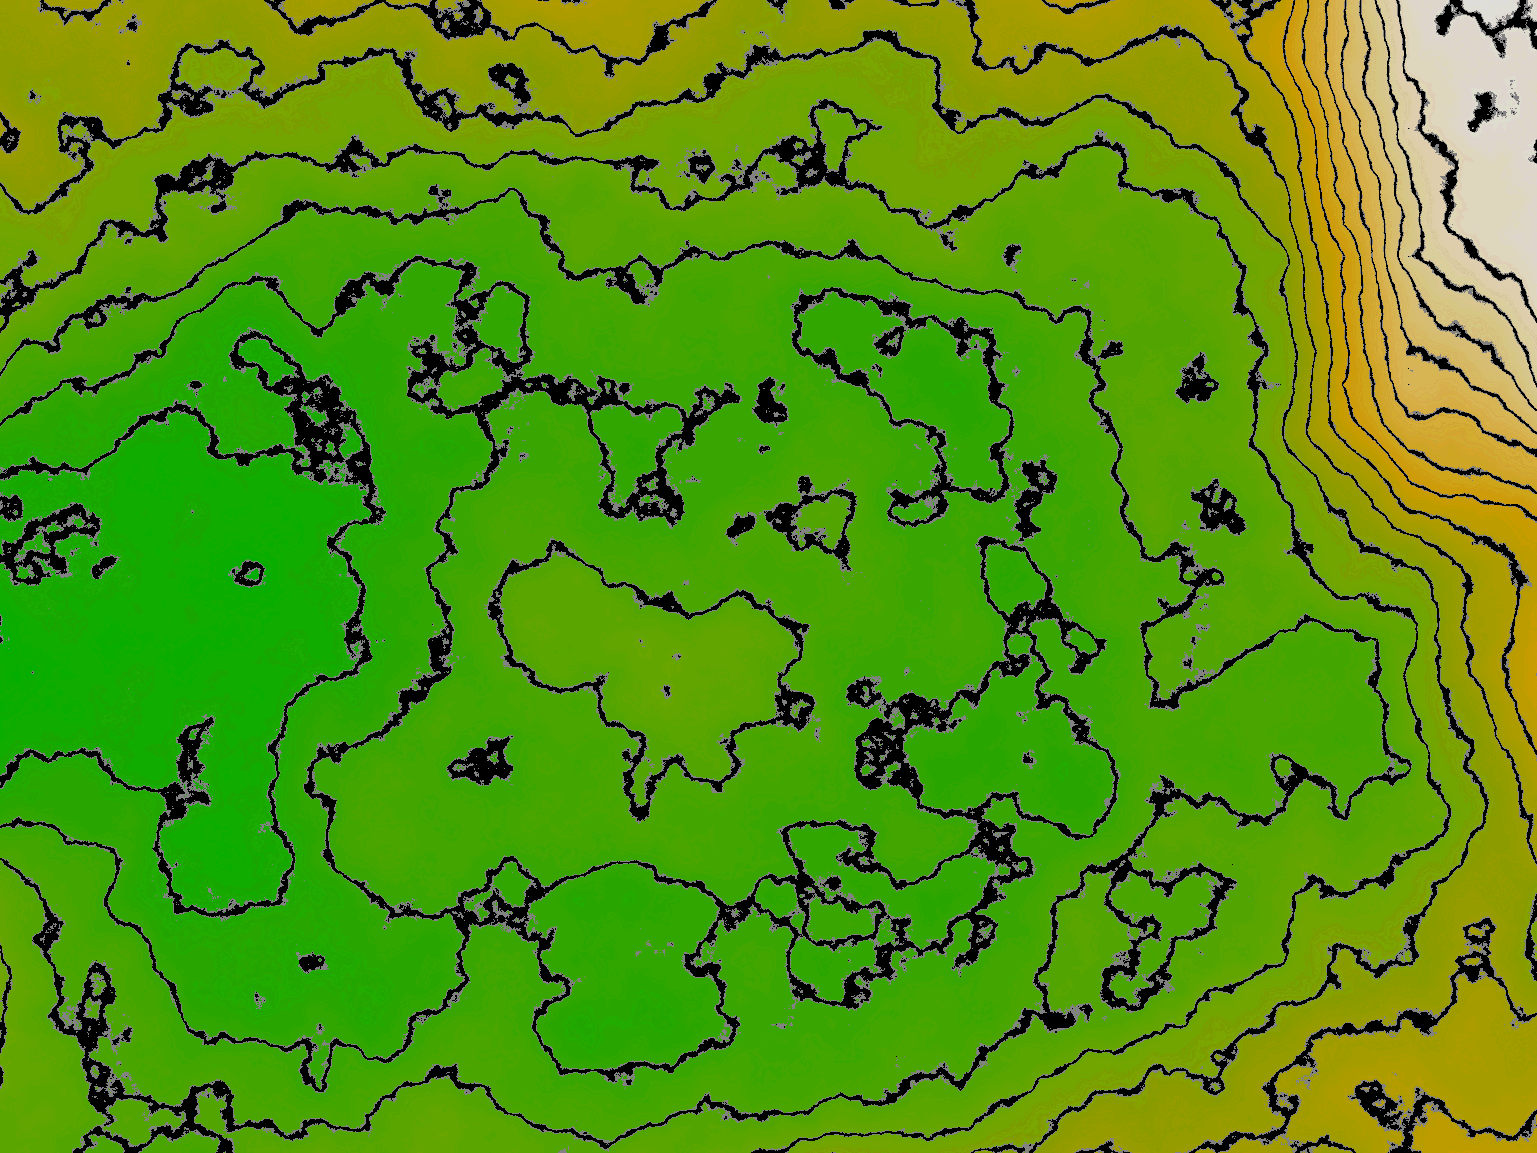
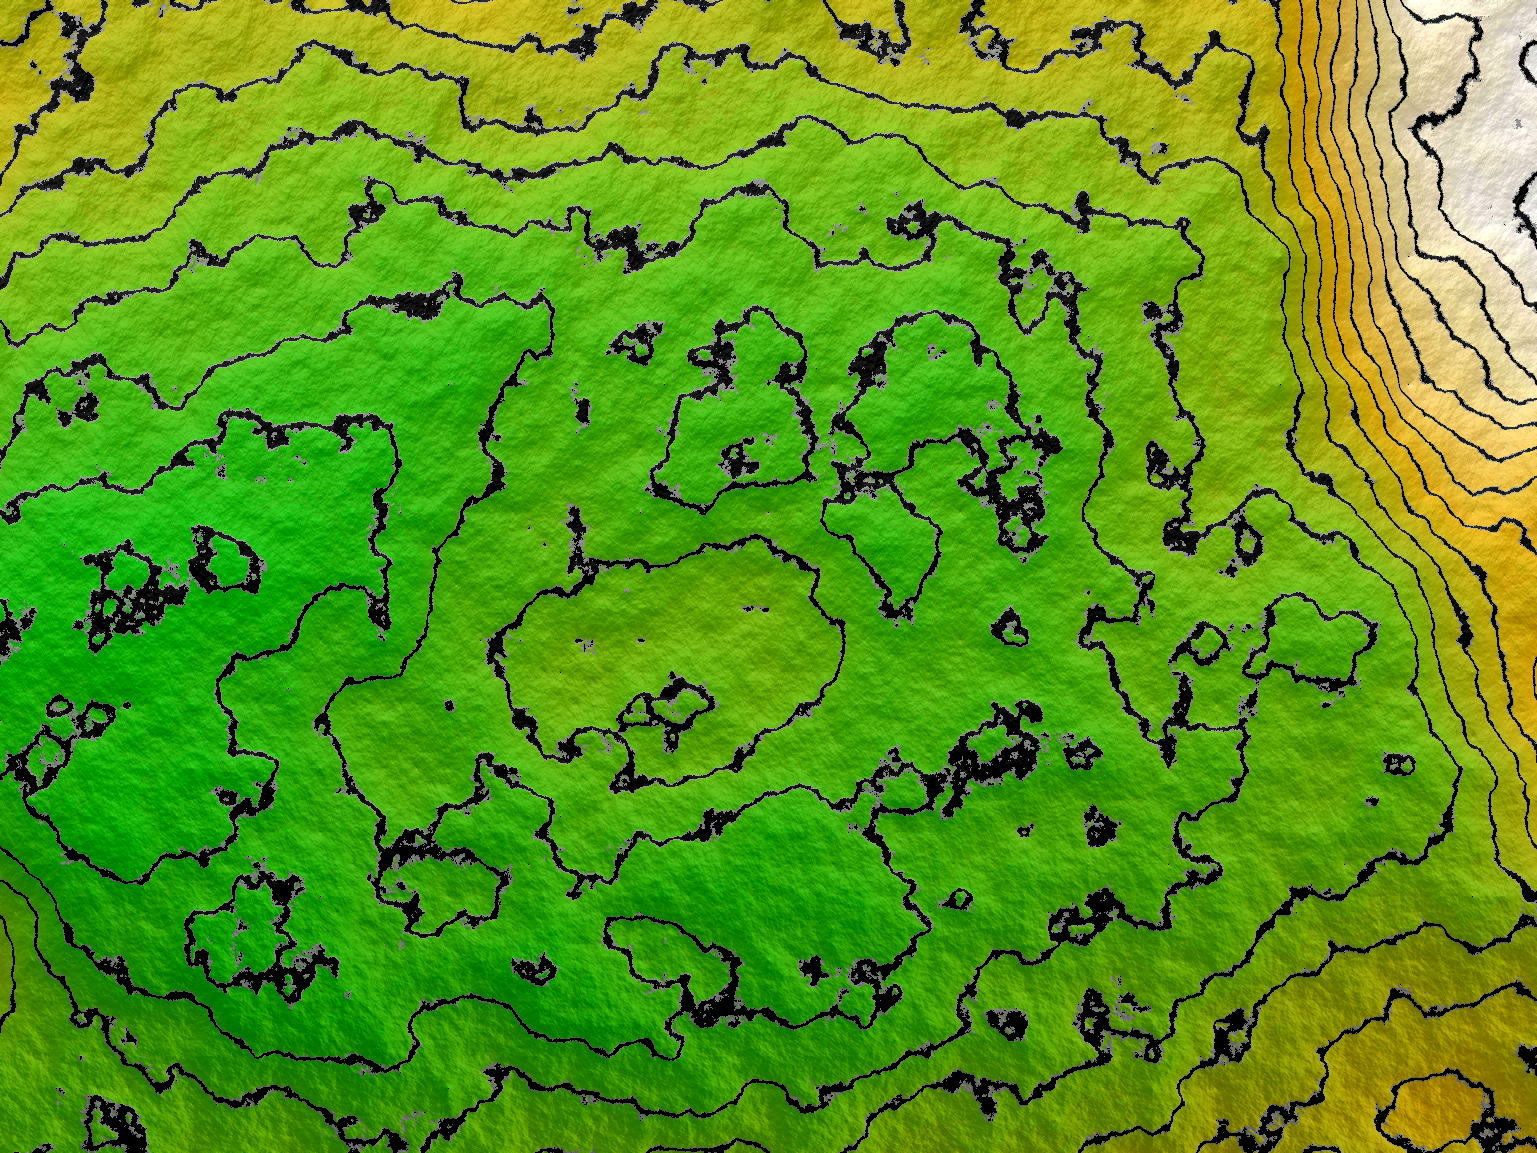
Add shadows

diff --git a/Ombrage.m b/Ombrage.m
@@ -1,0 +1,67 @@
+function [ texture ] = Ombrage( terrain,inter,rampfile,normales,points,lumiere, filename)
+%UNTITLED8 Summary of this function goes here
+%   Detailed explanation goes here
+n = size(terrain);
+
+epsNoir =1.25;
+epsGris = 2;
+
+INTENSITE = 50;
+
+minT=min(min(terrain));
+maxT=max(max(terrain));
+
+imdata = imread(rampfile);
+nbCouleurs=size(imdata);%la deuxieme composante contient le nombre de couleurs disponibles 
+
+pas = (nbCouleurs(2)-1)/(maxT-minT);
+
+texture = ones(n(1),n(2),3);
+texture = uint8(texture);
+texture = texture * 240;
+
+for i=1:n(1),
+    for j =1:n(2),    
+        indexCouleur = (terrain(i,j)-minT+1)*pas;
+        if(floor(indexCouleur) > 490 || floor(indexCouleur) < 1)
+            tmp = terrain(i, j);
+            disp(tmp);
+        end
+        
+        indexCouleur = floor(indexCouleur);
+        texture(i,j,1)= imdata(1,indexCouleur,1);
+        texture(i,j,2)= imdata(1,indexCouleur,2);
+        texture(i,j,3)= imdata(1,indexCouleur,3);
+    end
+end
+
+% Dessine les lignes (CourbeNiveau)
+for i=1:n(1),
+    for j =1:n(2),
+        if( (abs(mod(terrain(i,j),inter)) < epsNoir  ) || (abs (mod(terrain(i,j),inter) - inter) < epsNoir ) ) 
+            texture(i,j,1) = 0;
+            texture(i,j,2) = 0;
+            texture(i,j,3) = 0;
+        elseif((abs(mod(terrain(i,j),inter)) < epsGris  ) || (abs (mod(terrain(i,j),inter) - inter) < epsGris ) ) 
+            texture(i,j,1) = 130;
+            texture(i,j,2) = 130;
+            texture(i,j,3) = 130;
+        end;
+    end
+end
+    
+for i = 1 : n(1),
+   for j = 1: n(2),
+       rayon = points(i,j)-lumiere;
+       normale = squeeze(normales (i,j, :));
+       lum=(dot(rayon, normale))/abs(norm(rayon)) * INTENSITE;%cos
+       
+       texture(i,j, :) = texture(i, j, :) - lum;
+   end
+end
+
+texture = uint8(texture);
+    
+imwrite(texture,filename);
+
+end

diff --git a/QuatriemeRendu.m b/QuatriemeRendu.m
@@ -1,0 +1,14 @@
+function [ ] = QuatriemeRendu(terrain ,iter, alpha, lambda)
+%UNTITLED4 Summary of this function goes here
+%   Detailed explanation goes here
+
+terrainFinal = GenererTerrain(terrain,iter,alpha,lambda);
+points = ConstruitPoints3D(terrainFinal, -600,600 ,-450 ,450);
+normales = ConstruitNormales(points);
+
+Exporter16(terrainFinal, 'niveaudegris.png');
+Ombrage(terrainFinal, 25 , 'colorramp.png', normales, points, [1200 0 100], 'courbeniveau2.png');
+RenderTerrain('niveaudegris.png','courbeniveau2.png','out2.png', [-1200 0 700], [400 0 100]);
+
+end
+

diff --git a/ConstruitPoints3D.m b/ConstruitPoints3D.m
@@ -1,0 +1,16 @@
+function [ points3D ] = ConstruitPoints3D( terrain,xmin,xmax,ymin,ymax )
+%UNTITLED7 Summary of this function goes here
+%   Detailed explanation goes here
+n= size(terrain);
+points3D=zeros(n(1),n(2),3);
+deltaX = (xmax-xmin)/n(1);
+deltaY = (ymax-ymin)/n(2);
+for i = 1 : n(1),
+    for j = 1:n(2),
+        points3D(i,j,1)=xmin+i*deltaX;
+        points3D(i,j,2)=ymin+j*deltaY;
+        points3D(i,j,3)=terrain(i,j);
+    end
+end
+
+end
